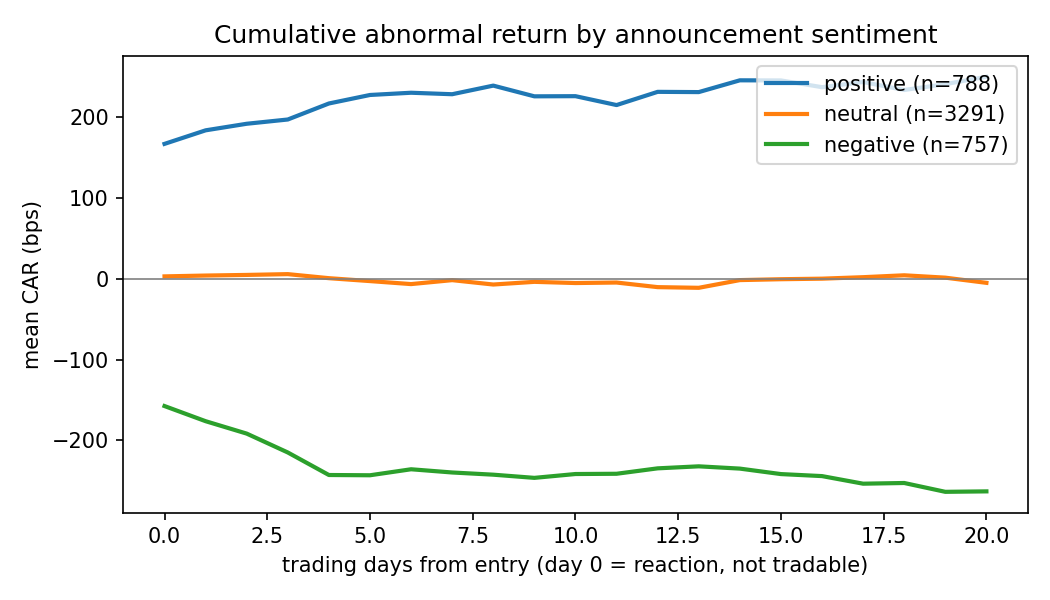
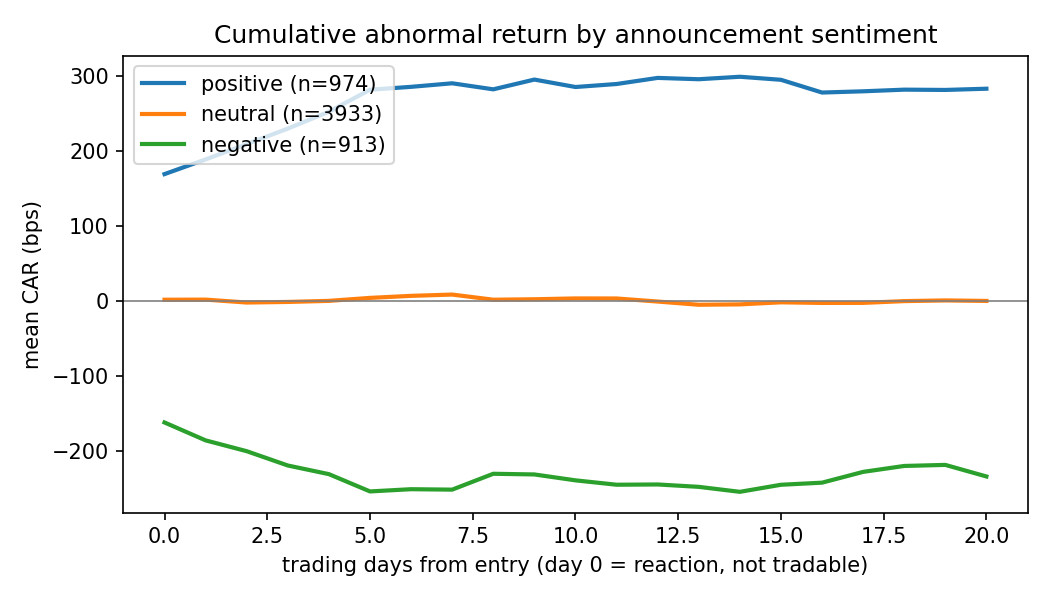
Refresh results for cutoff-aware OOS split; document cloud workflows

diff --git a/README.md b/README.md
@@ -28,7 +28,7 @@ This repository is an end-to-end research pipeline that answers that question. I
 > **These results come from the synthetic validation market, not from real HKEX data.**
 > The synthetic market has a known planted effect: a 3% reaction plus a 2% five-day drift that grows with Southbound buying. These numbers show that the pipeline recovers that effect correctly. They say nothing about real Hong Kong stocks. Live results will replace this section once the data collection finishes.
 
-**Sample:** 2021–2025, with 2024–2025 held out as out-of-sample. 6,000+ announcement–stock events across 80 stocks. The primary signal is the bilingual keyword score.
+**Sample:** January 2021 to October 2026, with August 2025 onward held out as out-of-sample. That split falls after the LLM scorer's training-data cutoff. 7,125 announcement–stock events across 80 stocks. The primary signal is the bilingual keyword score.
 
 ### 1. Announcements move prices, and the move keeps going
 
@@ -38,9 +38,9 @@ Day 0 is the reaction from the prior close to the first tradable close, which yo
 
 | Sentiment | Events | Reaction, day 0 (bps) | Drift, days 1–5 (bps) | t-stat (1–5) |
 |---|---:|---:|---:|---:|
-| Positive | 788 | +167 | +61 | 3.3 |
-| Neutral | 3,291 | +3 | −6 | −0.7 |
-| Negative | 757 | −158 | −86 | −4.7 |
+| Positive | 974 | +169 | +113 | 7.1 |
+| Neutral | 3,933 | +2 | +2 | 0.3 |
+| Negative | 913 | −162 | −92 | −5.7 |
 
 ### 2. Southbound flow amplifies the drift
 
@@ -48,11 +48,11 @@ This is a regression of 5-day drift on sentiment, its interactions with Southbou
 
 | Term | Coefficient | z |
 |---|---:|---:|
-| Sentiment | 0.0115 | 6.0 |
-| Sentiment × Southbound flow | 0.0074 | 4.0 |
-| Sentiment × short interest | 0.0022 | 1.1 |
+| Sentiment | 0.0142 | 9.1 |
+| Sentiment × Southbound flow | 0.0105 | 6.6 |
+| Sentiment × short interest | 0.0038 | 2.4 |
 
-The planted interaction is recovered with a z-statistic of 4. In the live run, this is the core test of the project.
+The planted Southbound interaction is recovered with a z-statistic of 6.6. The short-interest term was not planted, so its z of 2.4 is a reminder to correct for multiple tests on real data. In the live run, this is the core test of the project.
 
 ### 3. The backtest: alpha exists, but costs eat most of it
 
@@ -60,14 +60,14 @@ The planted interaction is recovered with a z-statistic of 4. In the live run, t
 
 | Signal | OOS IC (5d) | OOS Sharpe, gross | OOS Sharpe, net | Daily turnover |
 |---|---:|---:|---:|---:|
-| Keyword, English + Chinese | 0.041 | 1.80 | 0.50 | 30% |
-| Keyword, English only | 0.046 | 1.92 | 0.71 | 29% |
-| Keyword, Chinese only | 0.039 | 1.31 | 0.04 | 30% |
-| Keyword × Southbound flow | 0.038 | 1.57 | −0.03 | 38% |
-| Keyword × flow, weekly rebalance | 0.023 | 1.12 | 0.26 | 13% |
-| Southbound flow only (no news) | −0.009 | −0.04 | −4.90 | 60% |
+| Keyword, English + Chinese | 0.081 | 2.86 | 1.41 | 29% |
+| Keyword, English only | 0.083 | 2.98 | 1.60 | 28% |
+| Keyword, Chinese only | 0.075 | 2.50 | 1.26 | 27% |
+| Keyword × Southbound flow | 0.080 | 2.94 | 1.12 | 38% |
+| Keyword × flow, weekly rebalance | 0.047 | 1.15 | 0.28 | 12% |
+| Southbound flow only (no news) | −0.003 | −0.70 | −5.84 | 60% |
 
-Each round trip costs about 38 bps, including 10 bps of stamp duty on each side. That cost turns a gross Sharpe near 1.8 into roughly 0.5 net. Controlling turnover is the main lever on real data. Flow on its own, without news, has no edge.
+Each round trip costs about 38 bps, including 10 bps of stamp duty on each side. That cost cuts a gross Sharpe near 2.9 to about 1.4 net. Controlling turnover is the main lever on real data. Flow on its own, without news, has no edge.
 
 ![IC decay](docs/figures/ic_decay.png)
 
@@ -130,7 +130,8 @@ Everything is controlled by `config.yaml`. These are the settings that matter mo
 
 | Setting | Default | Effect |
 |---|---|---|
-| `dates.oos_start` | `2024-01-01` | Start of the out-of-sample period. Set it after the LLM's training cutoff for a clean test. |
+| `dates.oos_start` | `2025-08-01` | Start of the out-of-sample period, set after the LLM's training-data cutoff. |
+| `nlp.llm_model` | `claude-haiku-4-5` | Scoring model. Its training data ends July 2025, which leaves about 14 months of clean out-of-sample data. |
 | `signal.primary` | `kw_both` | Main signal. Switch to `llm_both` once LLM scores exist. |
 | `signal.half_lives` | `[2, 5, 10, 20]` | Candidate decay half-lives. The best one is chosen on in-sample IC. |
 | `signal.flow_tilt` | `0.5` | How strongly Southbound flow scales the news signal. |
@@ -163,6 +164,19 @@ The backtest rules are as follows. Weights are set at the close of day *t* and e
 
 ## Running on real HKEX data
 
+### Option 1: in the cloud with GitHub Actions (recommended)
+
+Two workflows do all the data work on GitHub's servers and save results to a separate `data` branch. Your laptop doesn't need to stay on.
+
+| Workflow | What it does | How to start |
+|---|---|---|
+| `collect-daily` | Saves the short-selling report each weekday at 16:45 HKT, and yesterday's Southbound holdings at 09:00 HKT | Runs automatically. Trigger it once by hand with `backfill_days = 360` to save the 12 months of Southbound history before it expires. |
+| `fetch-history` | Fetches the announcement history and prices, scores with the LLM if `ANTHROPIC_API_KEY` is set as a repo secret, runs the study, and uploads `reports/live/` | Actions tab → fetch-history → Run workflow. Resumable: if it hits the time limit, run it again. |
+
+To use the data locally, run `scripts/data_branch.sh restore`.
+
+### Option 2: on your machine
+
 ```bash
 hkalpha fetch-announcements --start 2021-01-01 --end 2025-12-31   # about 1 request/s, resumable
 hkalpha fetch-prices                                              # universe from data/universe.csv
@@ -182,7 +196,7 @@ HKEX only publishes Southbound and short-selling data for a limited window, so c
 0  9  * * 2-6  cd ~/hk-announcement-alpha && hkalpha fetch-southbound --start $(date -d yesterday +\%F) --end $(date -d yesterday +\%F)
 ```
 
-**Check the scorer before trusting any backtest.** Run `hkalpha label-sample --n 400` and fill in `label_sentiment` (from −1 to 1) in the CSV it writes. Then run `hkalpha eval-labels --labels data/raw/label_sample.csv`, which reports each scorer's Spearman correlation and sign accuracy against your labels.
+**Check the scorer before trusting any backtest.** Run `hkalpha label-sample --n 400` and label the CSV it writes by following [`docs/labeling_guide.md`](docs/labeling_guide.md). Then run `hkalpha eval-labels --labels data/raw/label_sample.csv`, which reports each scorer's Spearman correlation and sign accuracy against your labels.
 
 ---
 
@@ -193,7 +207,7 @@ HKEX only publishes Southbound and short-selling data for a limited window, so c
 | Trading on news before it is public | Entry is the first close at least 30 minutes after publication. A unit test checks that future events never change past scores. |
 | Counting the untradable reaction | Day-0 return is reported but never traded. Only drift from day 1 onward counts. |
 | Stale or early features | Southbound and short-selling features are lagged one day, matching when HKEX publishes them. |
-| LLM remembering outcomes | Issuer names and codes are stripped from prompts. The clean test is the period after the model's training cutoff. |
+| LLM remembering outcomes | Issuer names and codes are stripped from prompts. The scorer is Claude Haiku 4.5 (training data to July 2025), and the out-of-sample period starts August 2025, so the model cannot have seen the outcomes it is tested on. |
 | Overfitting | Parameters are chosen in-sample only. Every result is reported both in-sample and out-of-sample. |
 | Many filings on one night | Regression standard errors are clustered by announcement date. |
 | Unrealistic costs | The full HK schedule applies: 10 bps stamp duty per side, exchange, SFC and AFRC levies, commission, slippage, and borrow. |
@@ -221,9 +235,10 @@ src/hkalpha/
   features.py    price panel, liquidity, Southbound flow and short-interest z-scores
   event_study.py · signal.py · backtest.py · metrics.py · report.py · pipeline.py · cli.py
 examples/        custom_backtest.py
-scripts/         publish_results.sh
+scripts/         run_live.sh · data_branch.sh · publish_results.sh
 tests/           unit and end-to-end tests
-docs/            figures and the write-up outline
+docs/            figures, labelling guide, write-up outline
+.github/         tests, daily collection, history fetch
 config.yaml      every research setting
 ```
 
